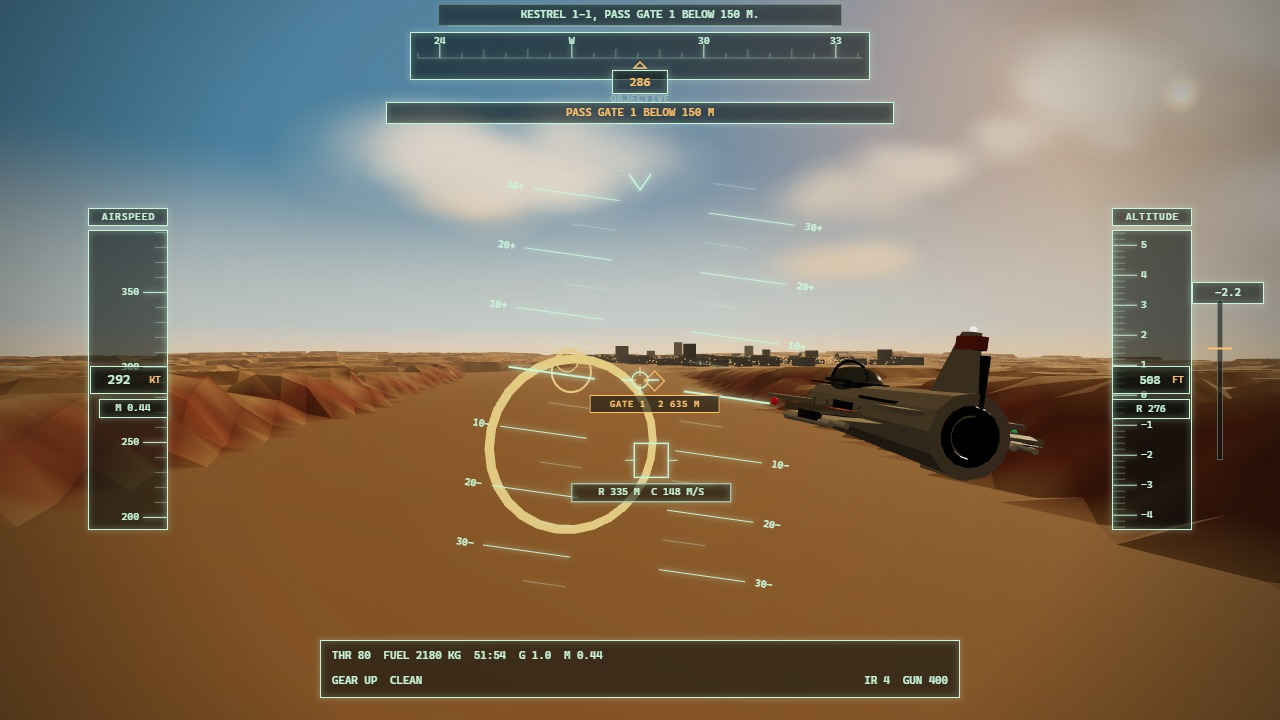
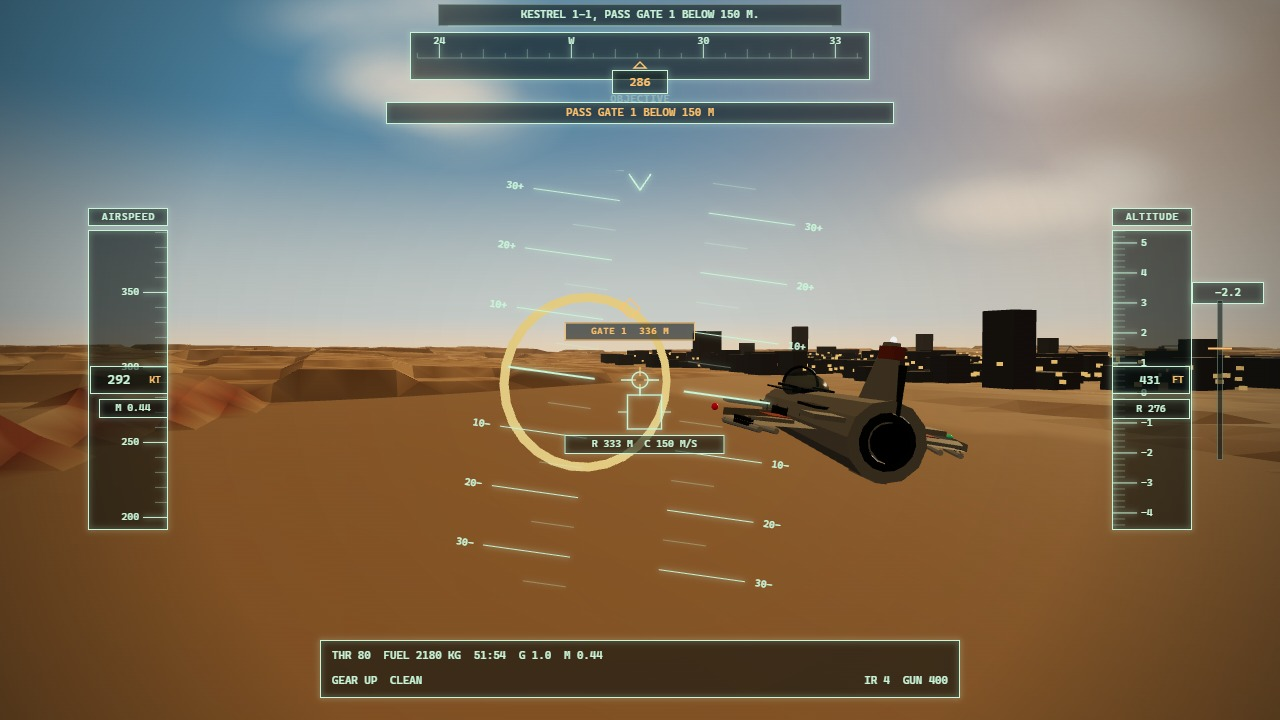
Shoot the cover in the narrow canyon with the eastern city behind
The tighter section frames the jet against the canyon rim and the skyline.

🤖 Generated with Codebuff

diff --git a/game/src/shots.js b/game/src/shots.js
@@ -43,14 +43,14 @@ export function configureShot(name, app) {
   if (name === 'cover') {
     missions.begin(MISSIONS[0], state, enemies);
     // Run down the canyon toward the central gate, the hoop dead ahead.
-    const gateX = 950, gateZ = canyonCenter(gateX);
+    const gateX = -1250, gateZ = canyonCenter(gateX);
     // Approach along the canyon floor with the hoop exactly on the nose.
     const x = gateX + 320, z = canyonCenter(x);
     const heading = Math.atan2(gateX - x, -(gateZ - z));
     pose(state, x, terrain.heightAt(x, z) + 84, z, heading, 0.015, -8 * Math.PI / 180, 150);
     configureSortie(state, terrain, { missionTime: 12, fuel: 2180, throttle: 0.8, missiles: 4, bombs: 2, gunRounds: 400 });
     state.agl = 84; state.controls.roll = -0.22;
-    setCamera(camera, state, 31, 3.5, 15, 84, 52);
+    setCamera(camera, state, 33, 4, 12, 82, 52);
     const forward = forwardOf(state);
     camera.lookAt(state.position.clone().addScaledVector(forward, 84));
     app.shotTarget = { position: new THREE.Vector3(gateX, terrain.heightAt(gateX, gateZ) + 66, gateZ) };
